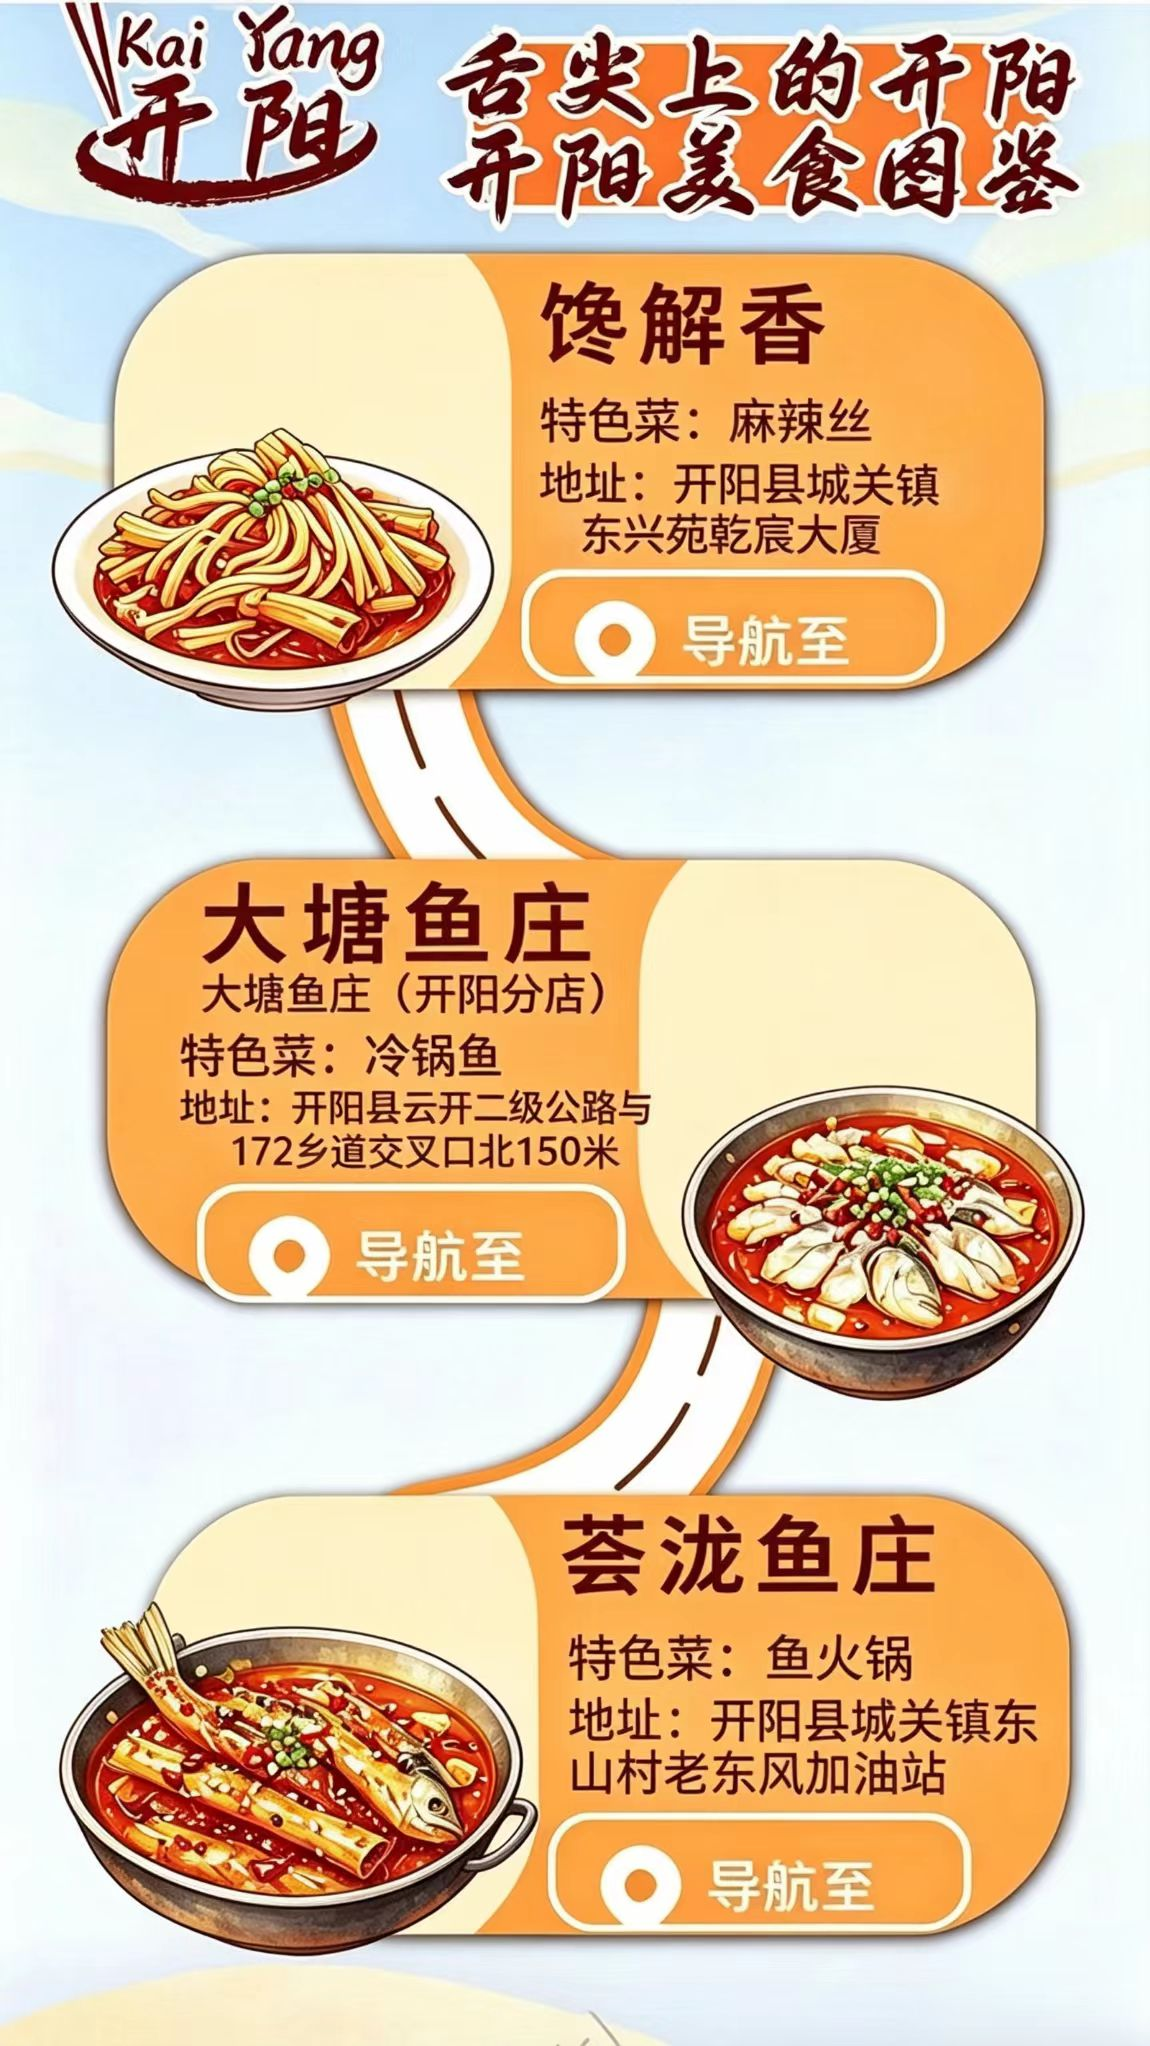
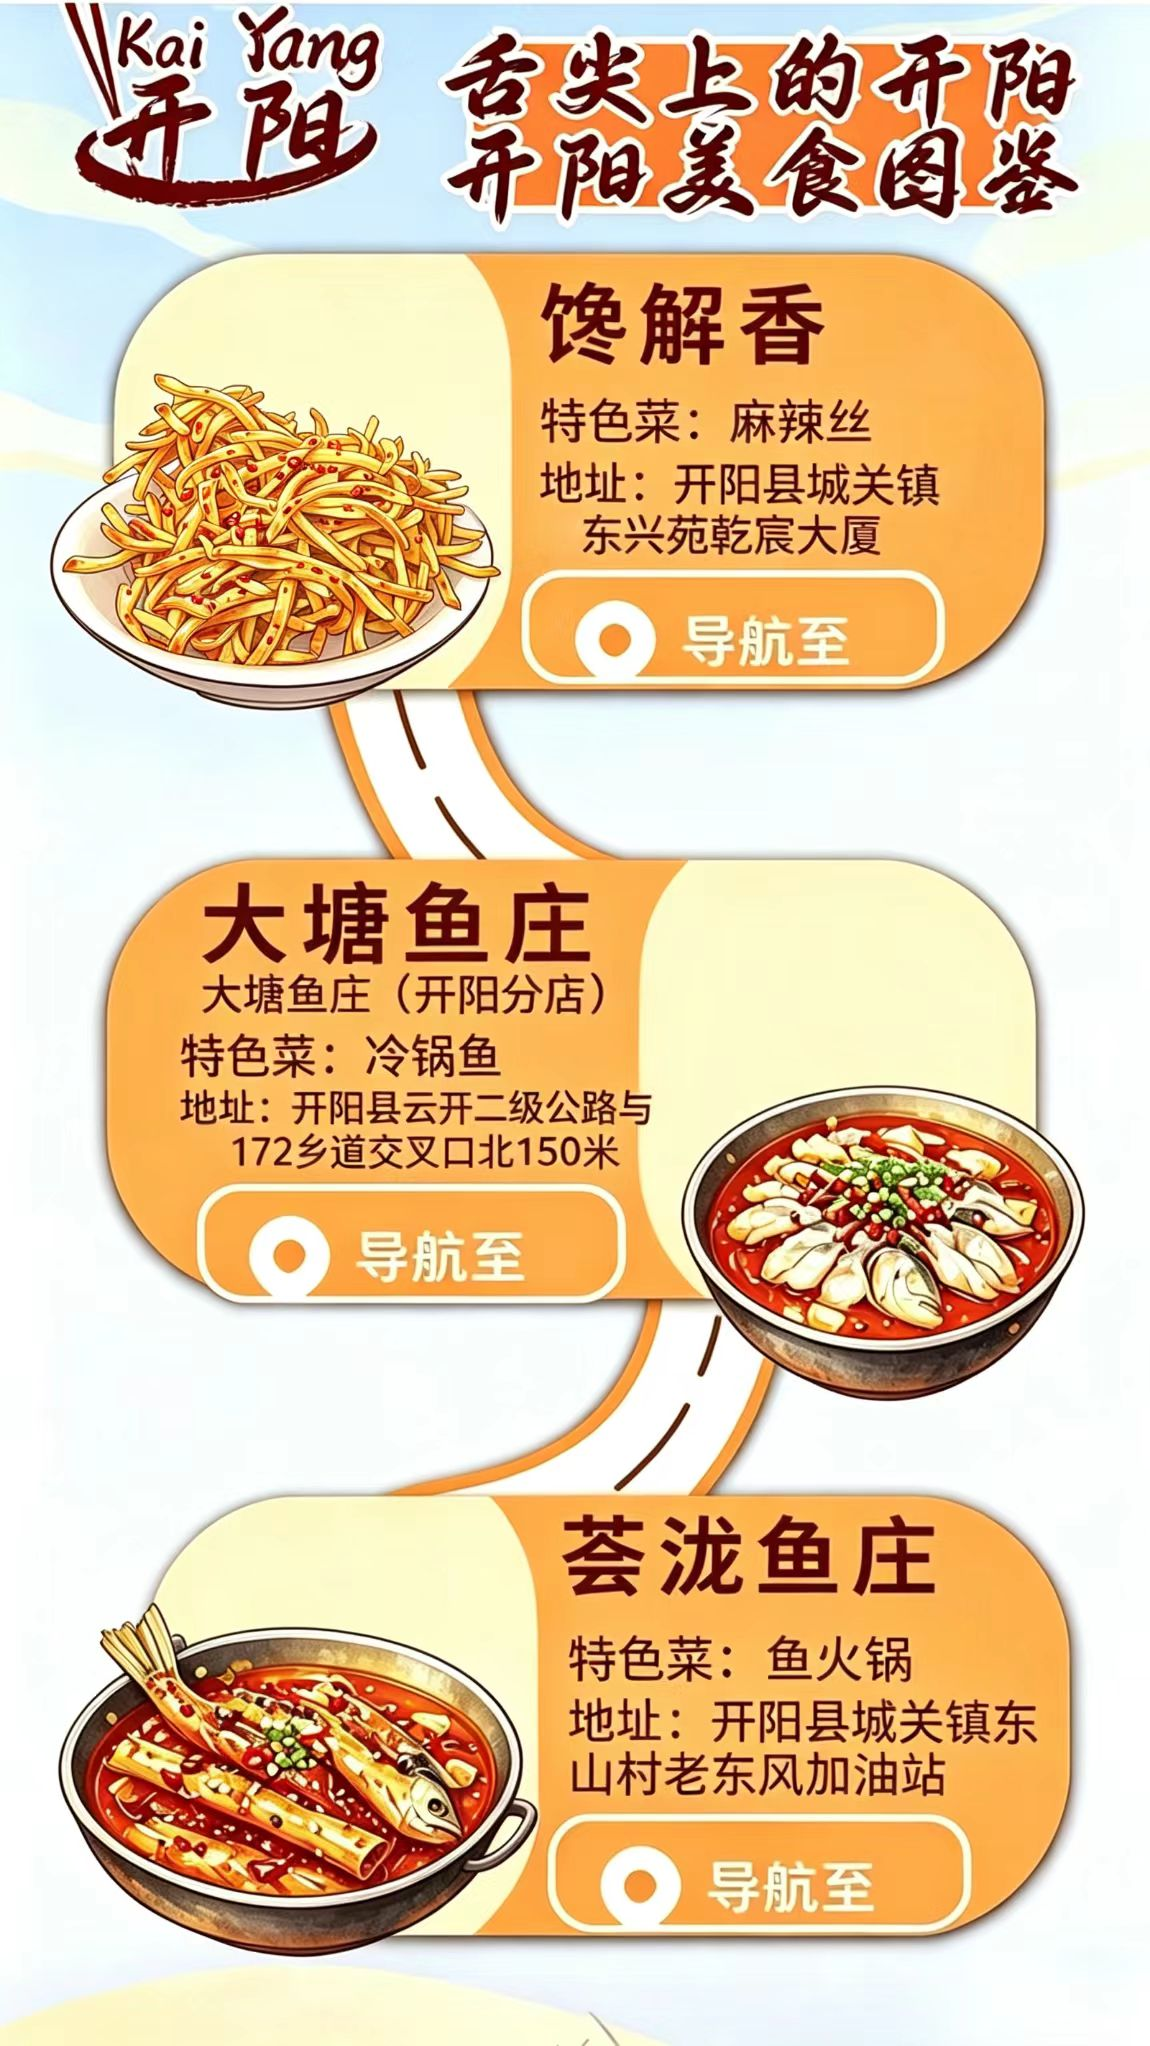
Refresh updated poster page 3.

diff --git a/js/shops.js b/js/shops.js
@@ -226,8 +226,8 @@ window.KAIYANG_FOOD_MAP = {
    */
   posterPages: [
     {
-      image: "assets/images/pages/01.jpg?v=0930f",
-      bgImage: "assets/images/pages/01-bg.jpg?v=0930f",
+      image: "assets/images/pages/01.jpg?v=0930g",
+      bgImage: "assets/images/pages/01-bg.jpg?v=0930g",
       staticPieces: [],
       titlePieces: [
         { left: 6, top: 2.6, width: 88, height: 17.6, delay: 0 },
@@ -256,8 +256,8 @@ window.KAIYANG_FOOD_MAP = {
       cardPieces: []
     },
     {
-      image: "assets/images/pages/02.jpg?v=0930f",
-      bgImage: "assets/images/pages/02-bg.jpg?v=0930f",
+      image: "assets/images/pages/02.jpg?v=0930g",
+      bgImage: "assets/images/pages/02-bg.jpg?v=0930g",
       hotspots: [
         { shopId: 1, left: 48, top: 33.2, width: 42, height: 7 },
         { shopId: 2, left: 7, top: 58.8, width: 40, height: 7 },
@@ -273,8 +273,8 @@ window.KAIYANG_FOOD_MAP = {
       ]
     },
     {
-      image: "assets/images/pages/03.jpg?v=0930f",
-      bgImage: "assets/images/pages/03-bg.jpg?v=0930f",
+      image: "assets/images/pages/03.jpg?v=0930g",
+      bgImage: "assets/images/pages/03-bg.jpg?v=0930g",
       hotspots: [
         { shopId: 4, left: 48, top: 31.2, width: 42, height: 7 },
         { shopId: 5, left: 7, top: 56.8, width: 40, height: 7 },
@@ -290,8 +290,8 @@ window.KAIYANG_FOOD_MAP = {
       ]
     },
     {
-      image: "assets/images/pages/04.jpg?v=0930f",
-      bgImage: "assets/images/pages/04-bg.jpg?v=0930f",
+      image: "assets/images/pages/04.jpg?v=0930g",
+      bgImage: "assets/images/pages/04-bg.jpg?v=0930g",
       hotspots: [
         { shopId: 7, left: 47, top: 26.2, width: 43, height: 7 },
         { shopId: 8, left: 7, top: 56.2, width: 40, height: 7.2 },
@@ -307,8 +307,8 @@ window.KAIYANG_FOOD_MAP = {
       ]
     },
     {
-      image: "assets/images/pages/05.jpg?v=0930f",
-      bgImage: "assets/images/pages/05-bg.jpg?v=0930f",
+      image: "assets/images/pages/05.jpg?v=0930g",
+      bgImage: "assets/images/pages/05-bg.jpg?v=0930g",
       hotspots: [
         { shopId: 10, left: 50, top: 26.5, width: 42, height: 7.5 },
         { shopId: 11, left: 50, top: 54.2, width: 42, height: 7.5 },
@@ -324,8 +324,8 @@ window.KAIYANG_FOOD_MAP = {
       ]
     },
     {
-      image: "assets/images/pages/06.jpg?v=0930f",
-      bgImage: "assets/images/pages/06-bg.jpg?v=0930f",
+      image: "assets/images/pages/06.jpg?v=0930g",
+      bgImage: "assets/images/pages/06-bg.jpg?v=0930g",
       hotspots: [
         { shopId: 13, left: 48, top: 28.5, width: 42, height: 7.2 },
         { shopId: 14, left: 7, top: 55.8, width: 40, height: 7.2 },
@@ -341,8 +341,8 @@ window.KAIYANG_FOOD_MAP = {
       ]
     },
     {
-      image: "assets/images/pages/07.jpg?v=0930f",
-      bgImage: "assets/images/pages/07-bg.jpg?v=0930f",
+      image: "assets/images/pages/07.jpg?v=0930g",
+      bgImage: "assets/images/pages/07-bg.jpg?v=0930g",
       hotspots: [
         { shopId: 16, left: 48, top: 28.2, width: 42, height: 7.2 },
         { shopId: 17, left: 7, top: 55.5, width: 40, height: 7.2 },

diff --git a/h5.html b/h5.html
@@ -19,7 +19,7 @@
   <meta property="og:image:width" content="500" />
   <meta property="og:image:height" content="500" />
   <link rel="image_src" href="https://kai-yang-mei-shi.onrender.com/assets/images/share-thumb.jpg" />
-  <link rel="stylesheet" href="css/h5.css?v=pop8" />
+  <link rel="stylesheet" href="css/h5.css?v=pop9" />
 </head>
 <body>
   <div class="h5-root">
@@ -37,8 +37,8 @@
       <span>上滑继续</span>
     </div>
   </div>
-  <script src="js/shops.js?v=pop8"></script>
+  <script src="js/shops.js?v=pop9"></script>
   <script src="js/share.js"></script>
-  <script src="js/h5.js?v=pop8"></script>
+  <script src="js/h5.js?v=pop9"></script>
 </body>
 </html>

diff --git a/index.html b/index.html
@@ -31,7 +31,7 @@
       <span id="dateText">贵州</span>
     </p>
     <a class="wx-cover-link" href="h5.html" id="coverLink">
-      <img id="heroImage" src="assets/images/article-cover.jpg?v=0930e" alt="开阳特色美食图鉴封面" />
+      <img id="heroImage" src="assets/images/article-cover.jpg?v=0930g" alt="开阳特色美食图鉴封面" />
     </a>
   </article>
   <script src="js/shops.js"></script>
